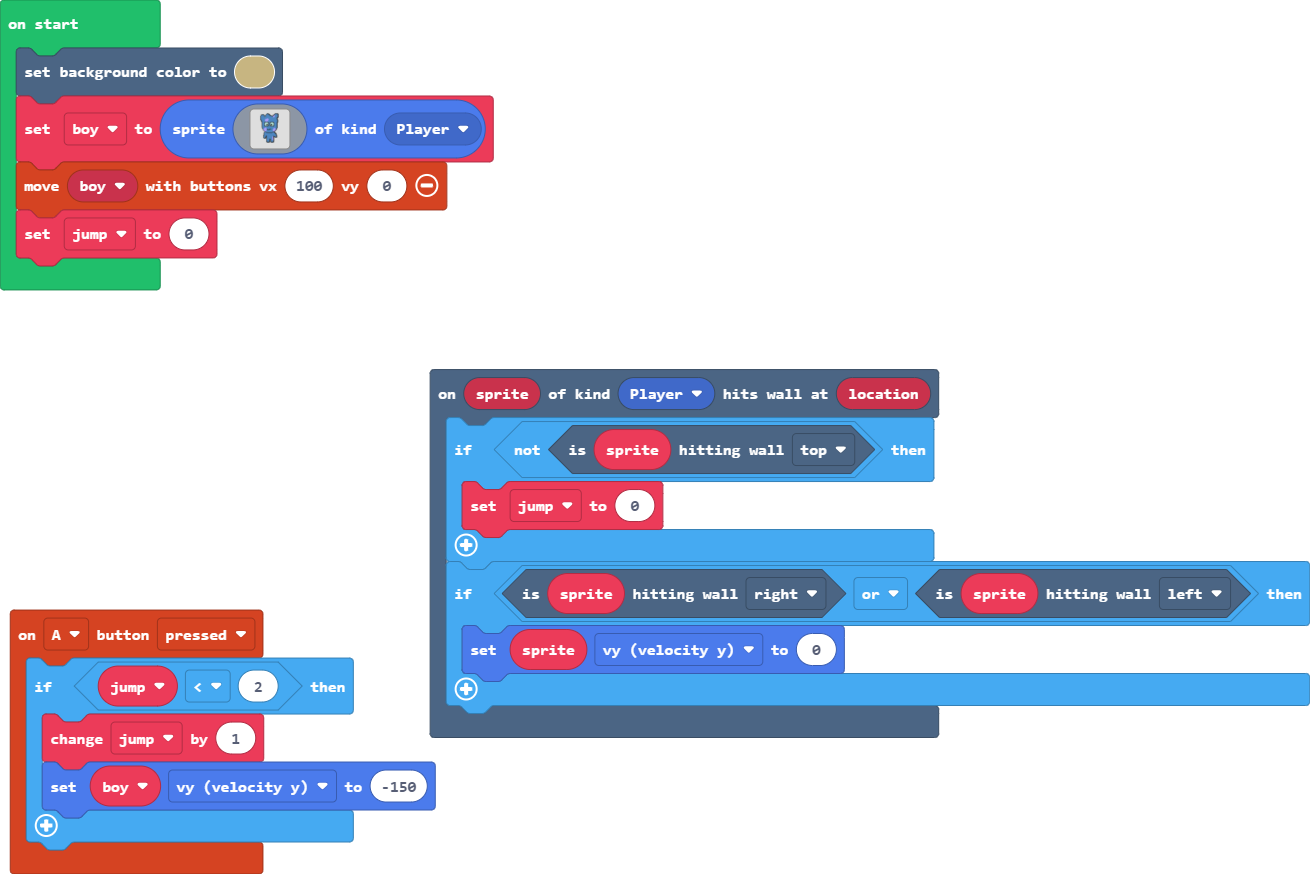
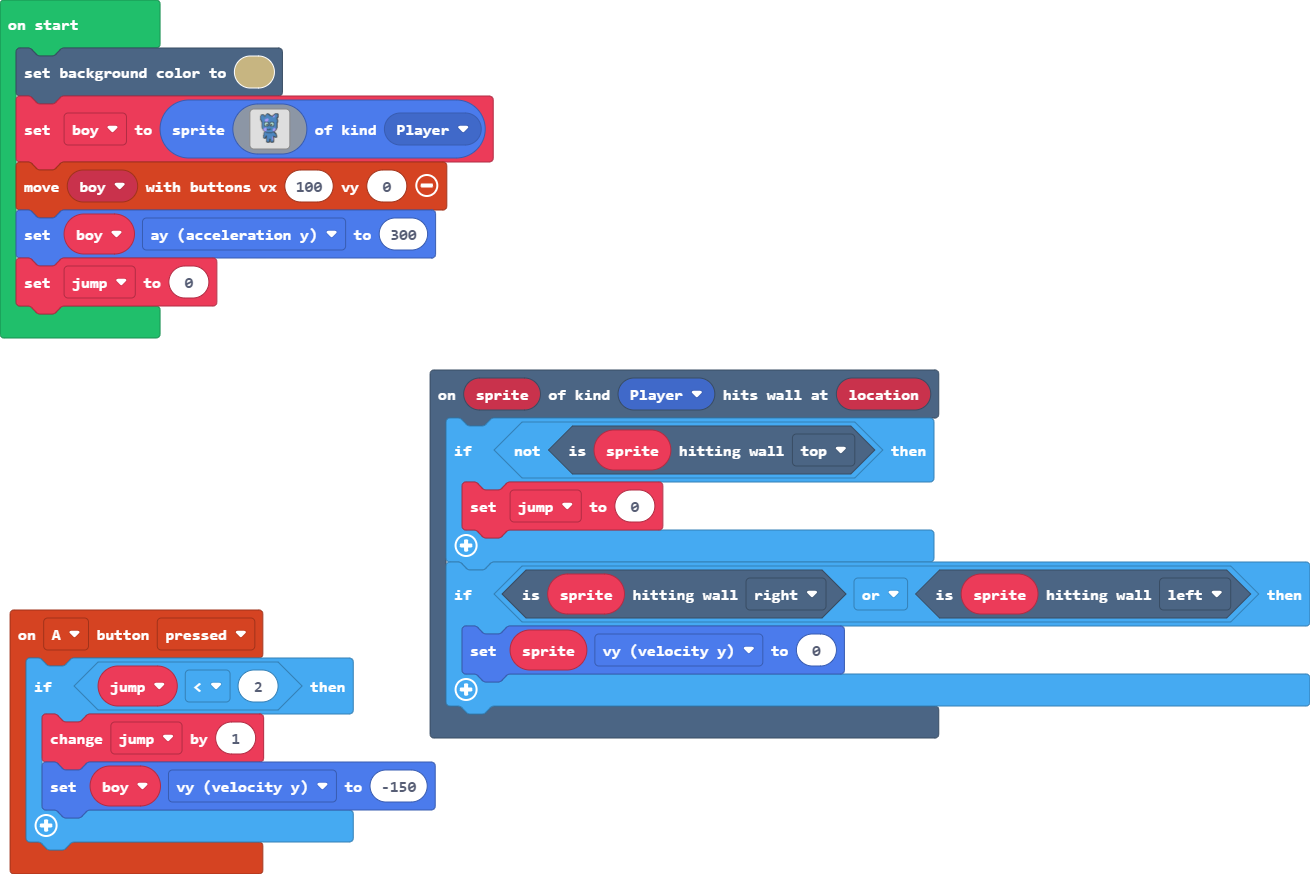
Update main.blocks, main.ts

diff --git a/main.ts b/main.ts
@@ -17,4 +17,5 @@ let boy: Sprite = null
 scene.setBackgroundColor(13)
 boy = sprites.create(assets.image`myImage1`, SpriteKind.Player)
 controller.moveSprite(boy, 100, 0)
+boy.ay = 300
 jump = 0
